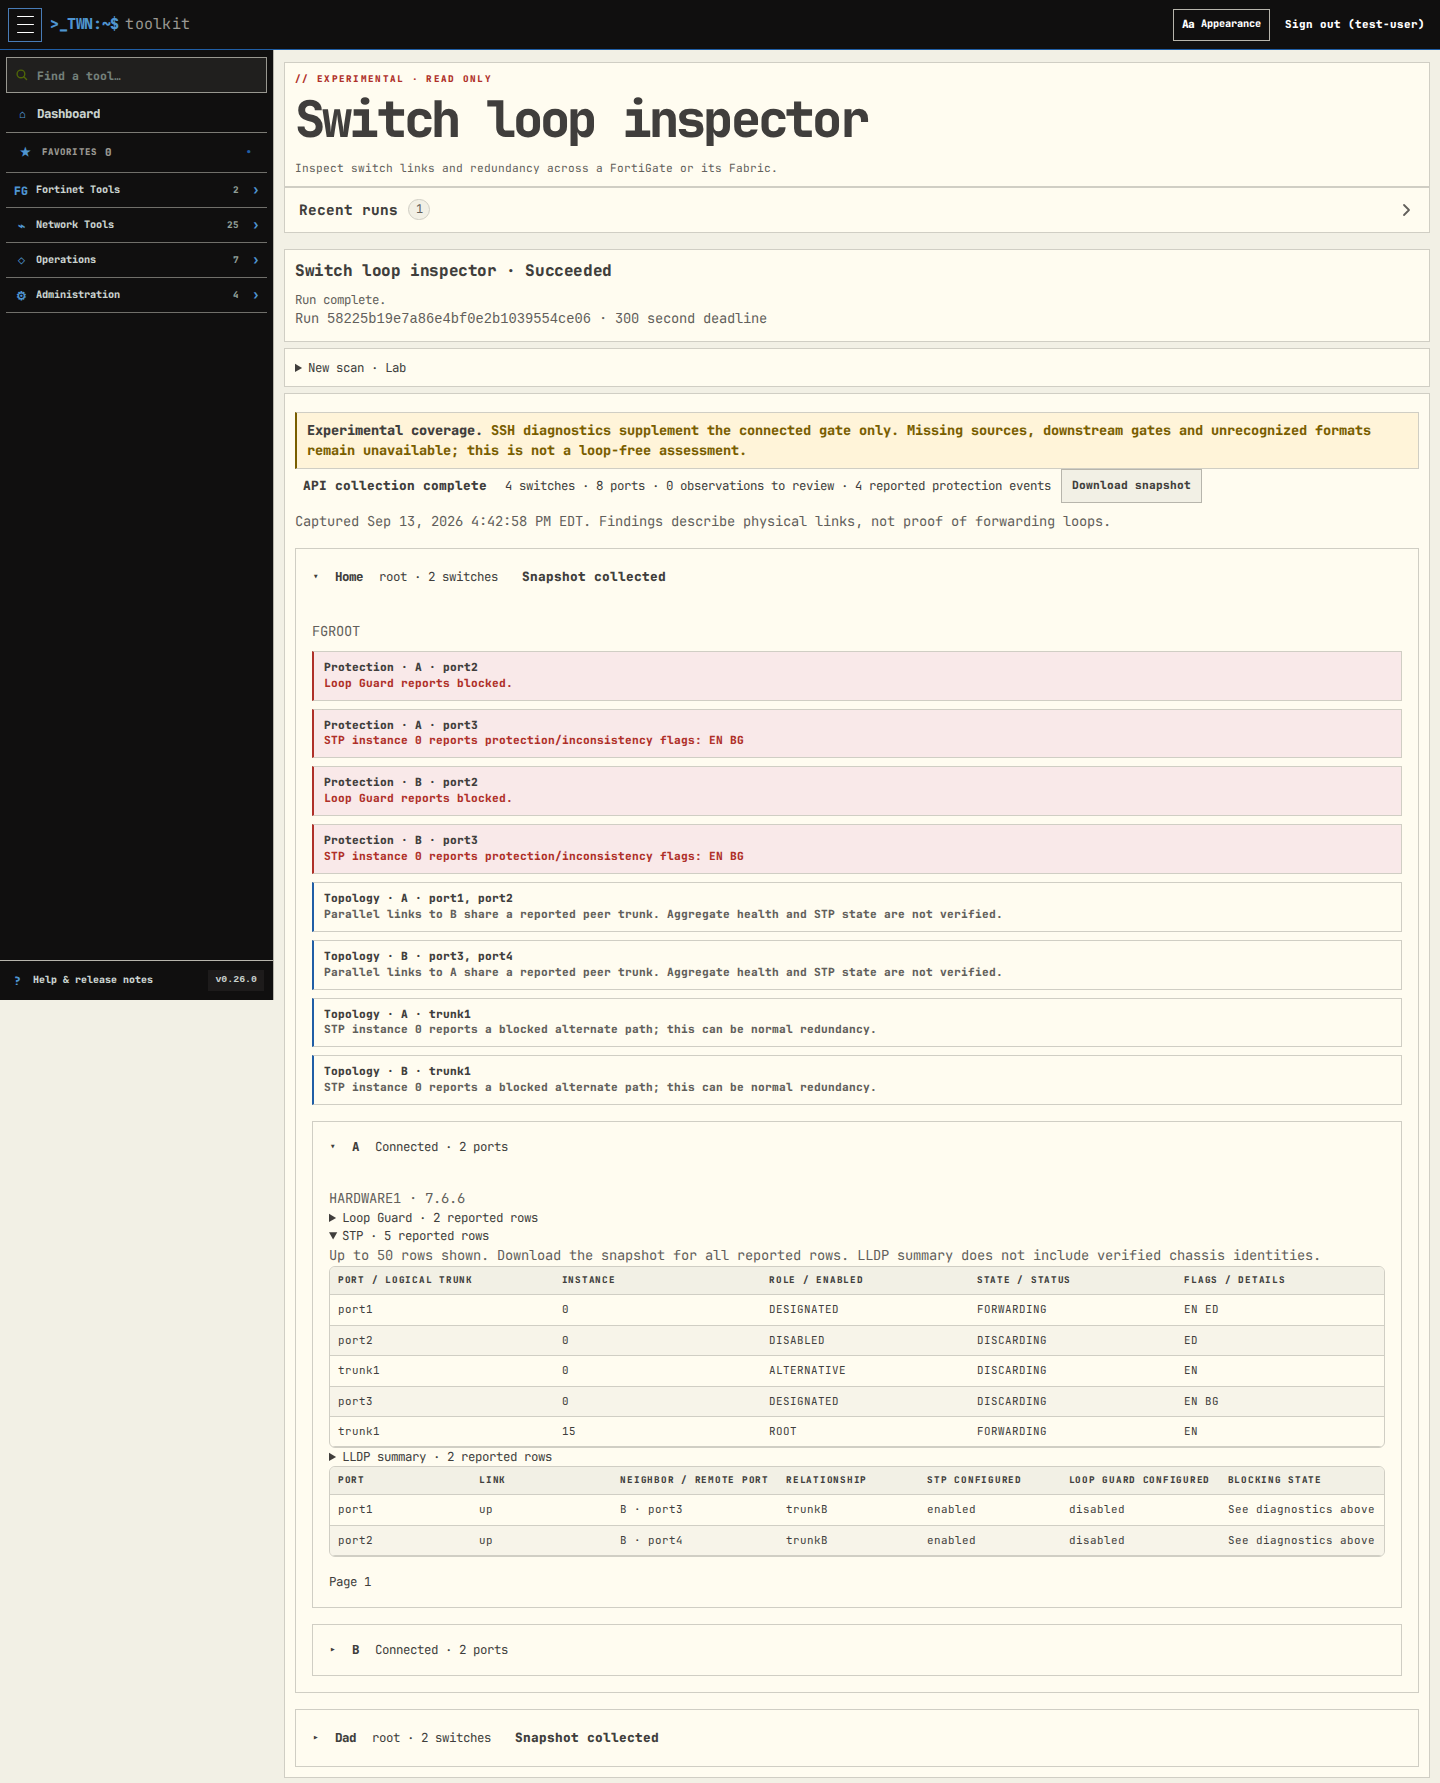
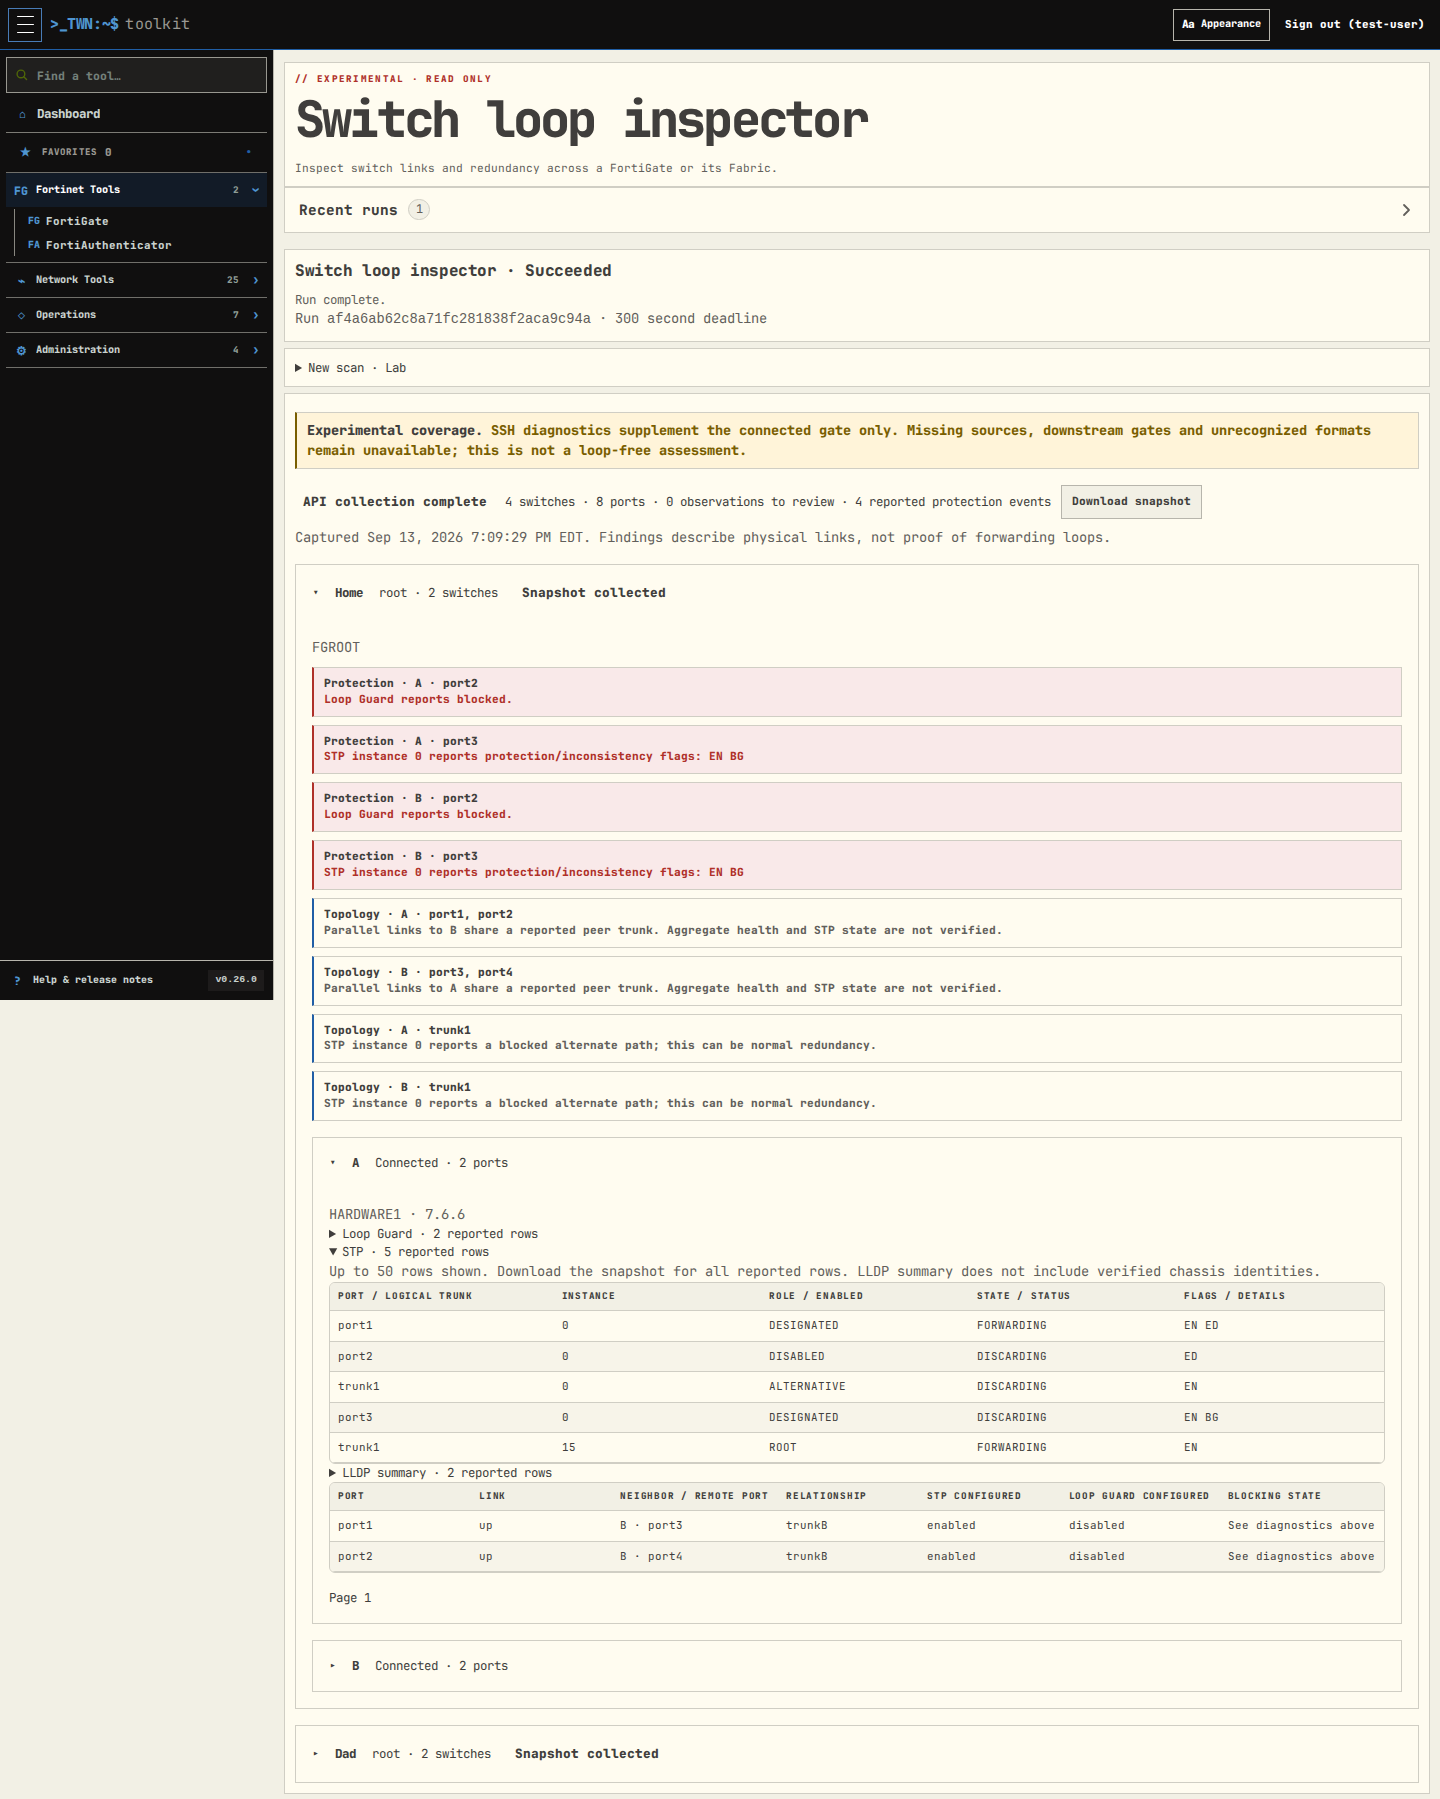
Align loop inspector controls and group it with FortiSwitch tasks

diff --git a/twn_toolkit/templates/fortigate_loop.html b/twn_toolkit/templates/fortigate_loop.html
@@ -10,15 +10,16 @@
 <label>Connection profile<select name="profile" required><option value="">Choose a profile</option>{% for p in profiles %}<option value="{{ p.name }}" {% if p.name==selected_name or (not selected_name and (p.is_default or profiles|length==1)) %}selected{% endif %}>{{ p.name }}</option>{% endfor %}</select></label>
 <label>Scope<select name="scope"><option value="single" {% if scope=='single' %}selected{% endif %}>This FortiGate</option><option value="fabric" {% if scope=='fabric' %}selected{% endif %}>This FortiGate + Fabric</option></select></label>
 <label>VDOM<input name="vdom" value="{{ vdom }}" placeholder="Profile default" maxlength="80"></label>
-<label class="loop-ssh-choice">SSH diagnostics (optional)<select name="ssh_host"><option value="">API topology only</option>{% for h in ssh_hosts %}<option value="{{ h.id }}">{{ h.name }} · {{ h.host }}</option>{% endfor %}</select><small class="field-note">Saved Remote Terminal connection to this FortiGate. Read-only commands; root VDOM only.</small></label>
-<div class="button-row"><button type="submit">Inspect switches</button></div>
+<label class="loop-ssh-choice">SSH diagnostics (optional)<select name="ssh_host" aria-describedby="loop-ssh-note"><option value="">API topology only</option>{% for h in ssh_hosts %}<option value="{{ h.id }}">{{ h.name }} · {{ h.host }}</option>{% endfor %}</select></label>
+<div class="button-row loop-scan-actions"><button type="submit">Inspect switches</button></div>
+<small id="loop-ssh-note" class="field-note loop-scan-note">Saved Remote Terminal connection to this FortiGate. Read-only commands; root VDOM only.</small>
 </form>
 {% if data %}</details>{% else %}</section>{% endif %}
 <section class="panel">
 <p class="message warning"><strong>Experimental coverage.</strong> {{ data.coverage if data else "API scans read topology and configuration. Optional SSH adds reported Loop Guard, STP and LLDP summary data for the connected gate. Missing sources cannot establish that the network is loop-free." }}</p>
 {% if not data %}<p>Run an inspection to retain a snapshot of switches, ports and inter-switch relationships. No background polling continues after the run.</p>{% endif %}
 {% if data %}
-<div class="button-row"><span class="pill {{ 'warning' if data.partial else 'neutral' }}">{{ 'Partial collection' if data.partial else 'API collection complete' }}</span><span>{{ data.switch_count }} switches · {{ data.port_count }} ports · {{ data.review_count }} observations to review · {{ data.protection_count|default(0) }} reported protection events</span><a class="button-link secondary" href="{{ url_for('fortigate_loop_download',job_id=diagnostic_job.id) }}">Download snapshot</a></div>
+<div class="button-row loop-snapshot-actions"><span class="pill {{ 'warning' if data.partial else 'neutral' }}">{{ 'Partial collection' if data.partial else 'API collection complete' }}</span><span>{{ data.switch_count }} switches · {{ data.port_count }} ports · {{ data.review_count }} observations to review · {{ data.protection_count|default(0) }} reported protection events</span><a class="button-link secondary" href="{{ url_for('fortigate_loop_download',job_id=diagnostic_job.id) }}">Download snapshot</a></div>
 <p class="field-note">Captured {{ data.captured|history_time }}. Findings describe physical links, not proof of forwarding loops.</p>
 {% if data.recording_warning %}<p class="message warning">{{ data.recording_warning }}</p>{% endif %}
 {% for g in data.gates %}

diff --git a/twn_toolkit/static/loop-inspector.css b/twn_toolkit/static/loop-inspector.css
@@ -1,4 +1,4 @@
-.loop-scan{display:grid;grid-template-columns:2fr 1.5fr 1fr;gap:1rem;align-items:end}
+.loop-scan{display:grid;grid-template-columns:minmax(0,2fr) minmax(0,1.5fr) minmax(11rem,1fr);gap:1rem;align-items:end}
 .loop-gate,.loop-switch{border:1px solid var(--line);margin-top:1rem;min-width:0}
 .loop-gate>summary,.loop-switch>summary{display:flex;flex-wrap:wrap;align-items:center;gap:1rem;padding:1rem;cursor:pointer;background:var(--panel)}
 .loop-gate>summary::before,.loop-switch>summary::before{content:'▸'}
@@ -11,3 +11,9 @@
 @media(max-width:900px){.loop-ssh-choice{grid-column:auto}}
 
 .loop-body table.loop-table th{color:var(--ink);background:var(--surface-subtle)}
+
+.loop-scan-note{grid-column:1/-1;margin:0}
+.loop-scan-actions{margin:0;min-height:var(--ui-field-height);align-items:center}
+.loop-snapshot-actions{margin-top:1rem}
+
+.loop-scan>label{min-width:0}

diff --git a/twn_toolkit/tool_modules/fortigate.py b/twn_toolkit/tool_modules/fortigate.py
@@ -23,7 +23,7 @@ def register_tools(registry: Any) -> None:
         [
             ToolLink("fortigate.loop_inspector", "Switch loop inspector",
                 "Experimental read-only switch topology and redundancy inspection.",
-                "fortigate_loop", "fortigate", "Network Tasks", show_on_home=False, nav_icon="SW"),
+                "fortigate_loop", "fortigate", "FortiSwitch Tasks", show_on_home=False, nav_icon="SW"),
             ToolLink("fortigate.dhcp", "DHCP inventory",
                 "Discover DHCP pools, interfaces, reservations and leases on one FortiGate or its Fabric.",
                 "fortigate_dhcp", "fortigate", "Network Tasks", show_on_home=False, nav_icon="IP"),

diff --git a/docs/fortigate-loop-inspector.md b/docs/fortigate-loop-inspector.md
@@ -1,7 +1,7 @@
 # Experimental switch loop inspector
 
 This branch is a prototype for review, not a claim that an entire network is
-loop-free. Find **Switch loop inspector** on the FortiGate workflows page.
+loop-free. Find **Switch loop inspector** under **FortiGate → FortiSwitch Tasks**.
 
 Choose a FortiGate profile, one VDOM, and either that gate or its Fabric. The scan
 runs in the existing background worker and retains its results. Expand a gate,
@@ -36,7 +36,9 @@ paths are shown as potentially normal redundancy. Explicit recognized protection
 flags or Loop Guard blocking statuses are shown separately. Unrecognized, rejected,
 paged or incomplete output is unavailable, never interpreted as healthy.
 
-LLDP summary data is displayed as reported. It does not establish full chassis
+LLDP summary data includes all reported device types, including APs and routers;
+it is not filtered to FortiSwitch neighbors. The main ports table shows the API
+inter-switch relationships. LLDP summary data is displayed as reported. It does not establish full chassis
 identities, so repeated device names are not classified as loops. A physical cycle
 alone does not prove a forwarding loop. Missing sources and uncertain observations
 remain visible; there is no overall green “no loops” verdict.
